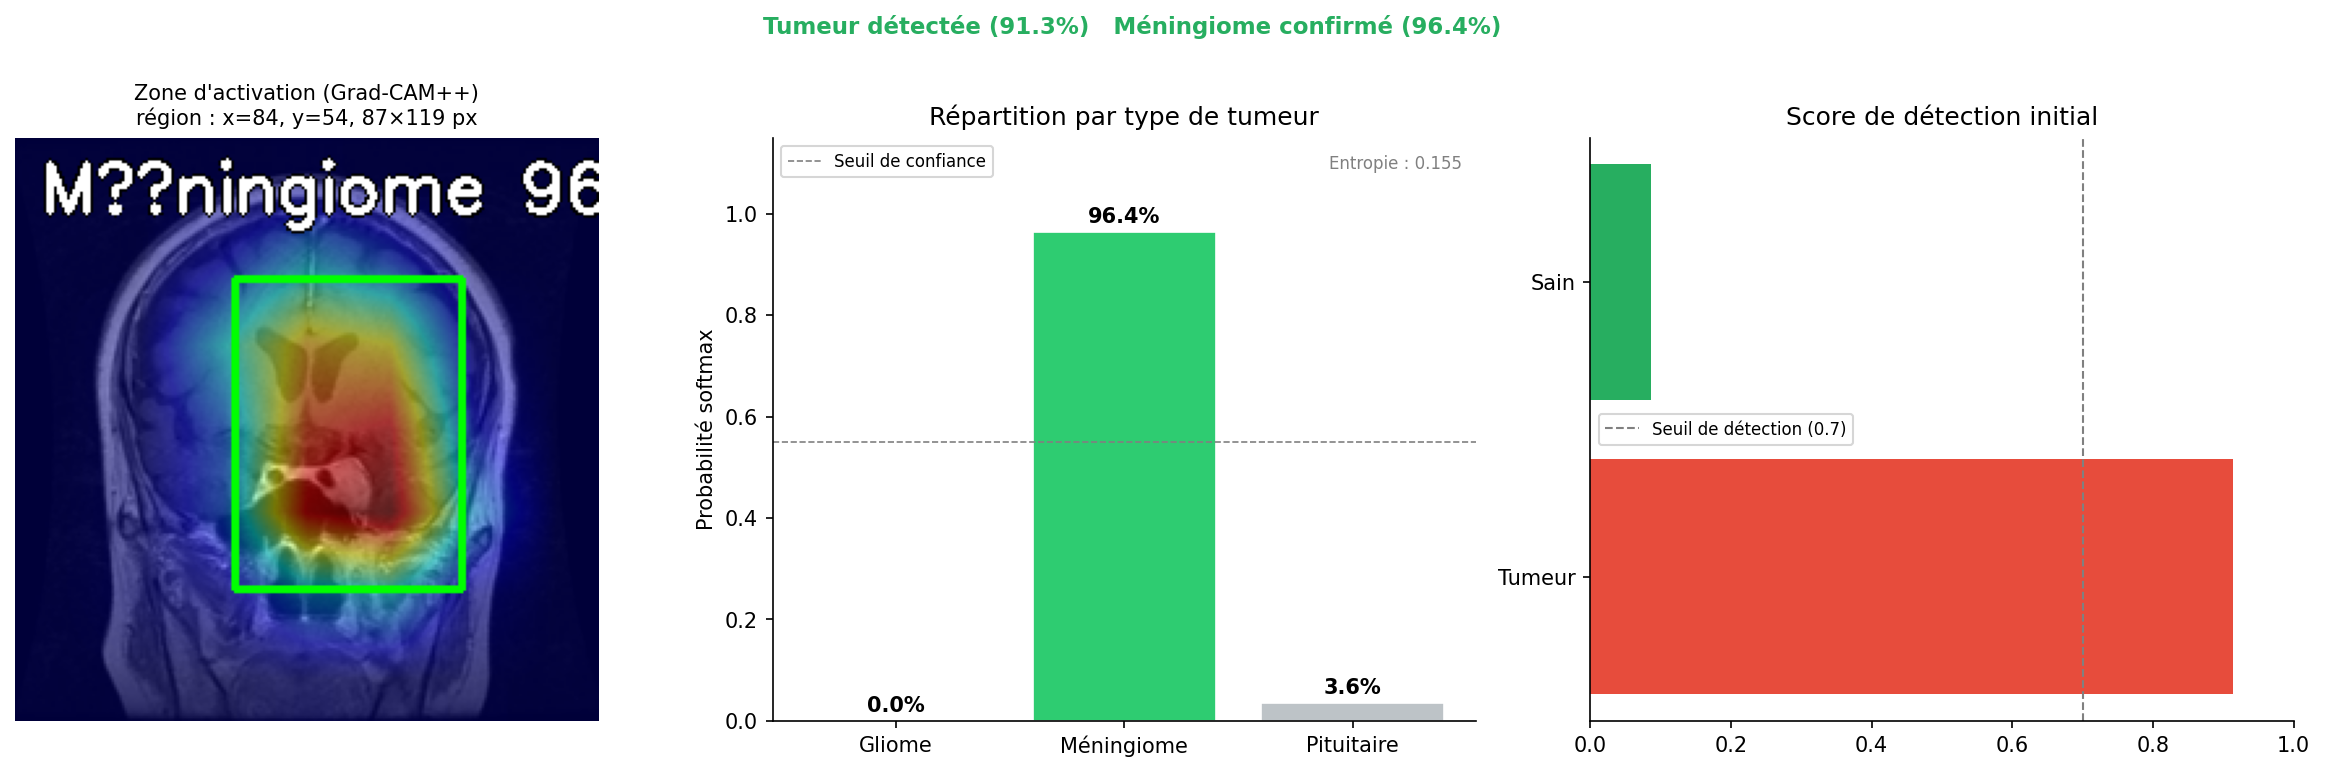
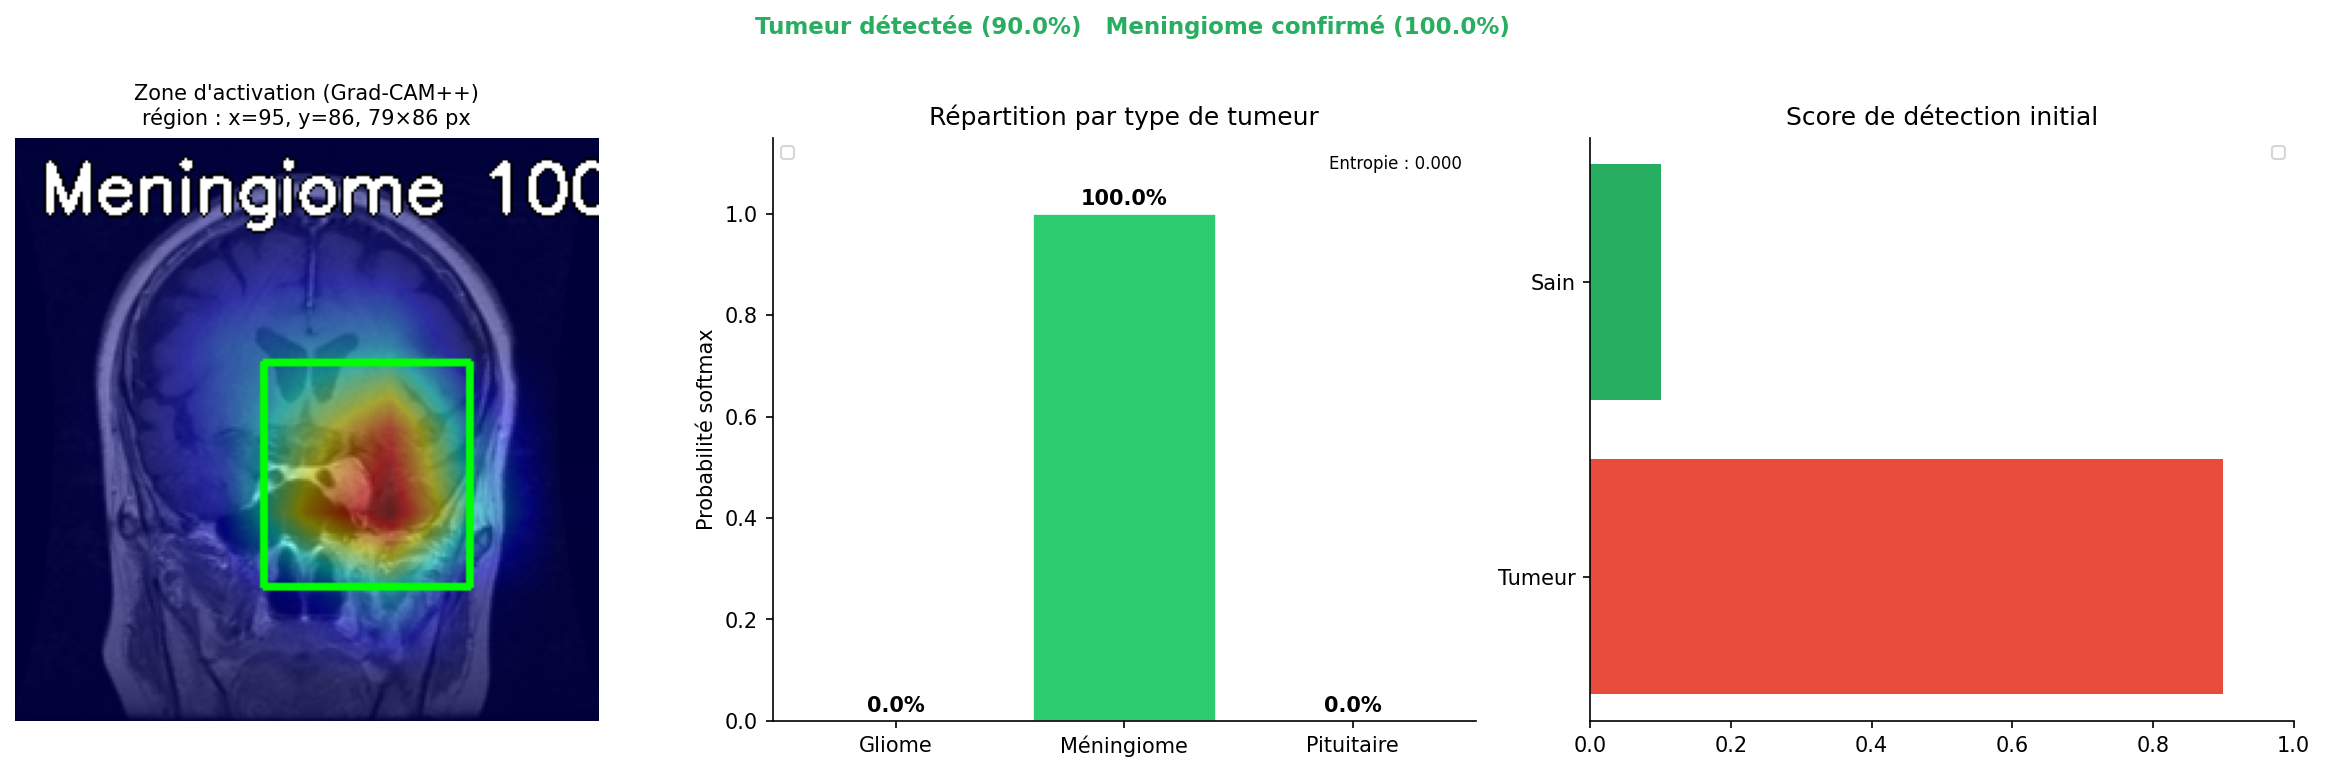
fix display

diff --git a/interface/app.js b/interface/app.js
@@ -14,44 +14,34 @@ let files = [];
 let session = [];
 
 async function loadSession() {
-  try {
-    const r = await fetch(`${API}/session`);
-    if (r.ok) session = await r.json();
-  } catch { session = []; }
+  const r = await fetch(`${API}/session`);
+  session = await r.json();
 }
 
 async function saveSession(newResults) {
   const light = newResults.map(({ src, annotated_src, ...rest }) => rest);
-  try {
-    await fetch(`${API}/session`, {
-      method: "POST",
-      headers: { "Content-Type": "application/json" },
-      body: JSON.stringify(light),
-    });
-  } catch {}
+  await fetch(`${API}/session`, {
+    method: "POST",
+    headers: { "Content-Type": "application/json" },
+    body: JSON.stringify(light),
+  });
 }
 
 async function deleteFromSession(filename) {
-  try {
-    await fetch(`${API}/session/${encodeURIComponent(filename)}`, { method: "DELETE" });
-    session = session.filter(r => r.filename !== filename);
-  } catch {}
+  await fetch(`${API}/session/${encodeURIComponent(filename)}`, { method: "DELETE" });
+  session = session.filter(r => r.filename !== filename);
 }
 
 async function checkModels() {
   const statusEl = document.getElementById("modelStatus");
   if (!statusEl) return;
-  try {
-    const r = await fetch(`${API}/status`);
-    const d = await r.json();
-    document.getElementById("navDevice").textContent = d.device;
-    statusEl.innerHTML = `
-      <div class="model-pill ${d.e2 ? "ok" : "missing"}"><span class="dot"></span>Etape 2 — ${d.e2 ? "pret" : "manquant"}</div>
-      <div class="model-pill ${d.e3 ? "ok" : "missing"}"><span class="dot"></span>Etape 3 — ${d.e3 ? "pret" : "manquant"}</div>
-    `;
-  } catch {
-    statusEl.innerHTML = `<div class="model-pill missing"><span class="dot"></span>API non disponible — mode demo</div>`;
-  }
+  const r = await fetch(`${API}/status`);
+  const d = await r.json();
+  document.getElementById("navDevice").textContent = d.device;
+  statusEl.innerHTML = `
+    <div class="model-pill ${d.e2 ? "ok" : "missing"}"><span class="dot"></span>Etape 2 — ${d.e2 ? "pret" : "manquant"}</div>
+    <div class="model-pill ${d.e3 ? "ok" : "missing"}"><span class="dot"></span>Etape 3 — ${d.e3 ? "pret" : "manquant"}</div>
+  `;
 }
 
 function fmtSize(b) {
@@ -123,28 +113,6 @@ function renderQueue() {
   });
 }
 
-function fakeDemoResult(filename, idx) {
-  const seed = filename.split("").reduce((a, c, i) => a + c.charCodeAt(0) * (i + 1), idx * 13);
-  let s = seed;
-  const rng = () => { s = (s * 16807) % 2147483647; return (s - 1) / 2147483646; };
-  const p = rng();
-  if (p < 0.3) return { scenario: "sain", proba: p };
-  if (p < 0.5) return { scenario: "ambig", proba: p };
-  const raw = [rng(), rng(), rng()];
-  const sum = raw.reduce((a, b) => a + b, 0);
-  const probs = raw.map(v => v / sum);
-  const H = -probs.reduce((a, v) => a + v * Math.log(v + 1e-9), 0);
-  const H_max = Math.log(3);
-  const ood = H / H_max > 0.75;
-  const predIdx = probs.indexOf(Math.max(...probs));
-  const classes = ["Gliome", "Meningiome", "Pituitaire"];
-  return {
-    scenario: "tumeur", proba: p, type: classes[predIdx], probs, predIdx,
-    confidence: probs[predIdx], entropy: H, entropy_norm: H / H_max, ood,
-    bbox: ood ? null : { x: 60 + Math.floor(rng() * 40), y: 55 + Math.floor(rng() * 40), w: 80 + Math.floor(rng() * 60), h: 70 + Math.floor(rng() * 50) },
-  };
-}
-
 async function analyzeFile(file, idx) {
   const pb    = document.getElementById(`qi-pb-${idx}`);
   const pf    = document.getElementById(`qi-pf-${idx}`);
@@ -154,18 +122,12 @@ async function analyzeFile(file, idx) {
   badge.textContent = "Analyse...";
   await animateProgress(pf, 40, 300);
 
-  let result;
-  try {
-    const fd = new FormData();
-    fd.append("file", file);
-    const r = await fetch(`${API}/analyze`, { method: "POST", body: fd });
-    result = await r.json();
-    await animateProgress(pf, 100, 200);
-  } catch {
-    await sleep(400 + Math.random() * 300);
-    result = fakeDemoResult(file.name, idx);
-    await animateProgress(pf, 100, 200);
-  }
+  const fd = new FormData();
+  fd.append("file", file);
+  const r = await fetch(`${API}/analyze`, { method: "POST", body: fd });
+  if (!r.ok) throw new Error(`Erreur API : ${r.status}`);
+  const result = await r.json();
+  await animateProgress(pf, 100, 200);
 
   result.filename = file.name;
 
@@ -252,8 +214,8 @@ function buildResultBlock(result) {
       ${imgTag(result.src_url, "IRM originale")}
     </div>
     <div class="result-image-panel">
-      <div class="result-image-label">Activation Grad-CAM++ ${result.annotated_url ? "" : "(simulation)"}</div>
-      ${imgTag(result.annotated_url || result.src_url, "Grad-CAM")}
+      <div class="result-image-label">Activation Grad-CAM++</div>
+      ${imgTag(result.annotated_url, "Grad-CAM")}
     </div>
   `;
   container.appendChild(imagesSection);
@@ -343,13 +305,21 @@ async function runAnalysis() {
 
   const allResults = [];
   for (let i = 0; i < files.length; i++) {
-    const result = await analyzeFile(files[i], i);
-    allResults.push(result);
+    try {
+      const result = await analyzeFile(files[i], i);
+      allResults.push(result);
+    } catch (err) {
+      const badge = document.getElementById(`qi-badge-${i}`);
+      if (badge) { badge.className = "badge badge-missing"; badge.textContent = "Erreur"; }
+      console.error(err);
+    }
   }
 
-  session = [...session, ...allResults];
-  await saveSession(allResults);
-  renderAllResults();
+  if (allResults.length) {
+    session = [...session, ...allResults];
+    await saveSession(allResults);
+    renderAllResults();
+  }
 
   files = [];
   renderQueue();